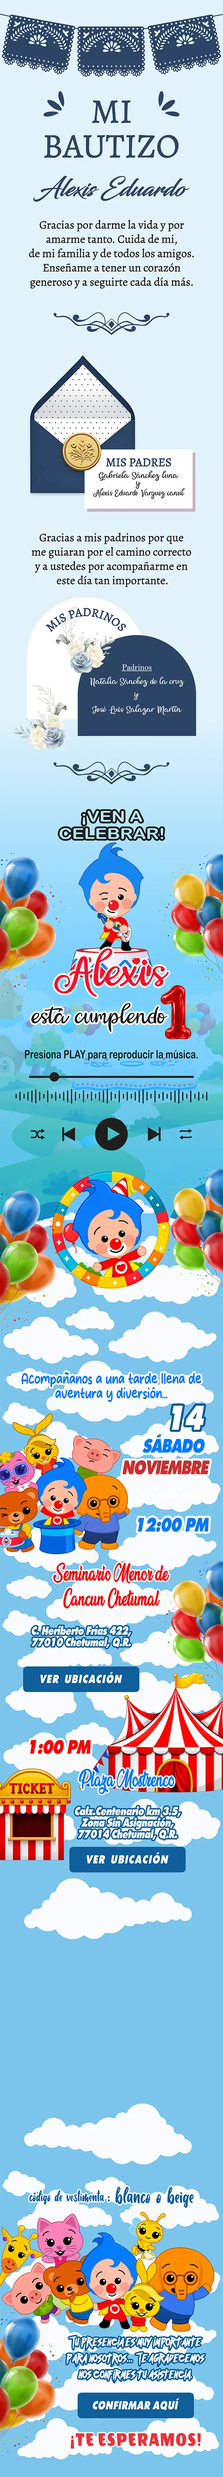
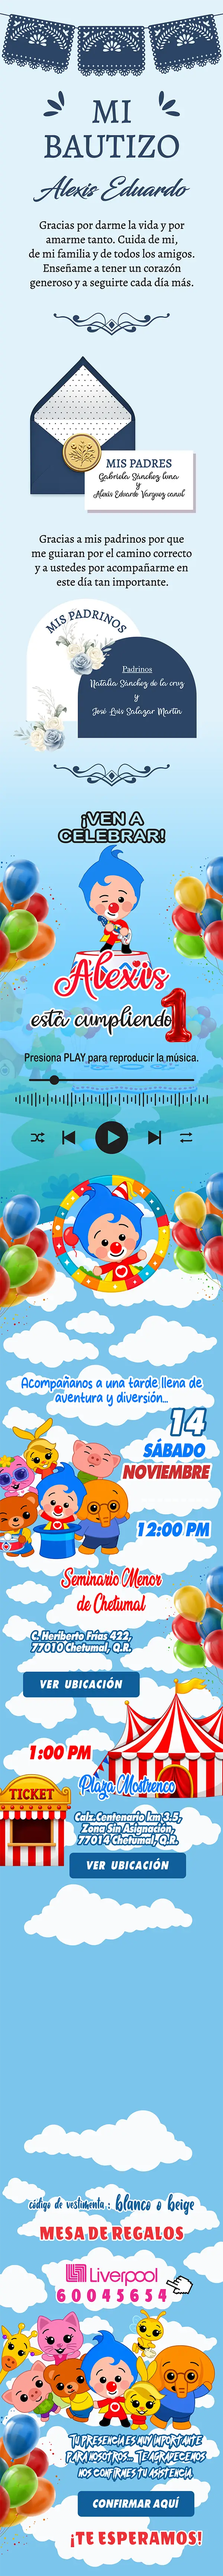
asd
asd

diff --git a/index.html b/index.html
@@ -68,12 +68,37 @@
 
 
 
-            <!--<div class="pst_absolute w_100 hpx_200" id="play" style=" top: 53%;  "></div>-->
+            <div class="pst_absolute w_100 hpx_200" id="play" style=" top: 41.8%;          "></div>
+
+
+            <div class="pst_absolute w_100" style="top: 50.6%">
+                <center>
+                    <div class="text-center m_0">
+                        <div id="countdown" class="color_white fspx_20 font_lo"></div>
+                    </div><br>
+                </center>
+            </div>
 
 
 
 
-            <div class="pst_absolute w_100" style="bottom: 12.5%">
+
+            <a class="pst_absolute w_100 hpx_150 d_block" style=" bottom: 33%;              "
+            href="https://maps.app.goo.gl/1sDD2Lm3EmAUaSzL9"  target="_blank"></a>
+
+            
+
+
+            <a class="pst_absolute w_100 hpx_150 d_block" style=" bottom: 26%;              "
+            href="https://maps.app.goo.gl/yxtU5isL4qw97knE9"  target="_blank"></a>
+
+            
+
+
+
+
+
+            <div class="pst_absolute w_100" style="bottom: 15.5%">
 
                 <div class="pst_absolute" style="width: 519px; height: 439.624px; margin-left: 0px; margin-top: 0px;">
                    <svg class="_7KaXww">
@@ -118,37 +143,34 @@
                 <div class="hpx_450"></div>
             </div>
             
-            
-
-
-
-            <div class="pst_absolute w_100" style="top: 52.6%">
-                <center>
-                    <div class="text-center m_0">
-                        <div id="countdown" class="color_white fspx_20 font_lo"></div>
-                    </div><br>
-                </center>
-            </div>
-
-
-            <!--<a class="pst_absolute w_100 hpx_150 d_block" style=" bottom: 20%;    "
-            href="https://maps.app.goo.gl/gVrPxUQxiE1cN6hC8"  target="_blank"></a>
-
-            
-            <a class="pst_absolute w_100 hpx_150 d_block" style=" bottom: 10%;    "
-            href="https://maps.app.goo.gl/eLvJqQifsWT58qin6"  target="_blank"></a>-->
 
 
 
             
-            <!--<a class="pst_absolute w_100 hpx_150 d_block" style=" bottom: 1%; "
-            href="https://api.whatsapp.com/send?phone=+5217443851407&text=Hola,%20confirmo%20mi%20asistencia%20a%20tu%20evento" target="_blank"></a>-->
+
+            <a class="pst_absolute w_100 hpx_150 d_block" style=" bottom: 9.5%;              "
+            href="https://mesaderegalos.liverpool.com.mx/milistaderegalos/60045654"  target="_blank"></a>
+
+
+
+
+
+
+
+
+
+            
+            <a class="pst_absolute w_100 hpx_150 d_block" style=" bottom: 1%;          "
+            href="https://api.whatsapp.com/send?phone=+5219831860752&text=Hola,%20confirmo%20mi%20asistencia%20a%20tu%20evento" target="_blank"></a>
           
           
             
           
 
         </div>  
+
+
+
 
   
           <!-- Footer -->
